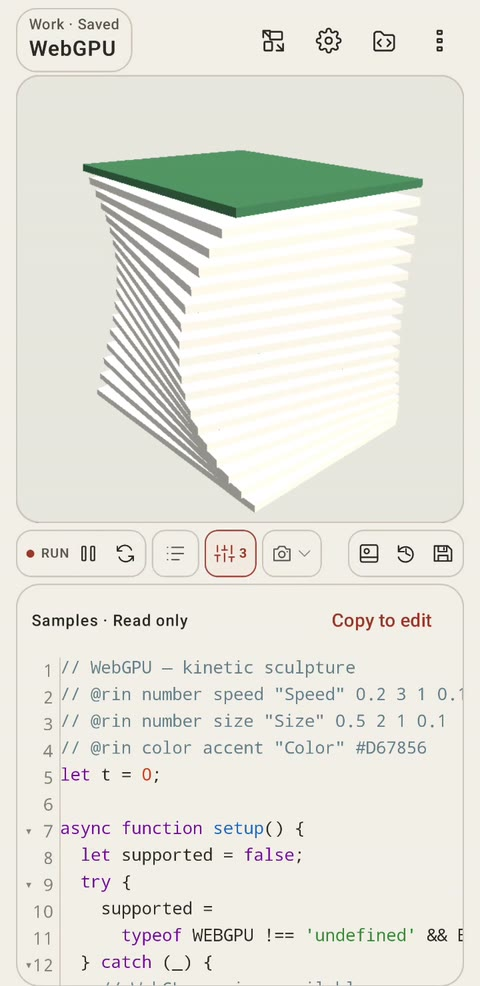
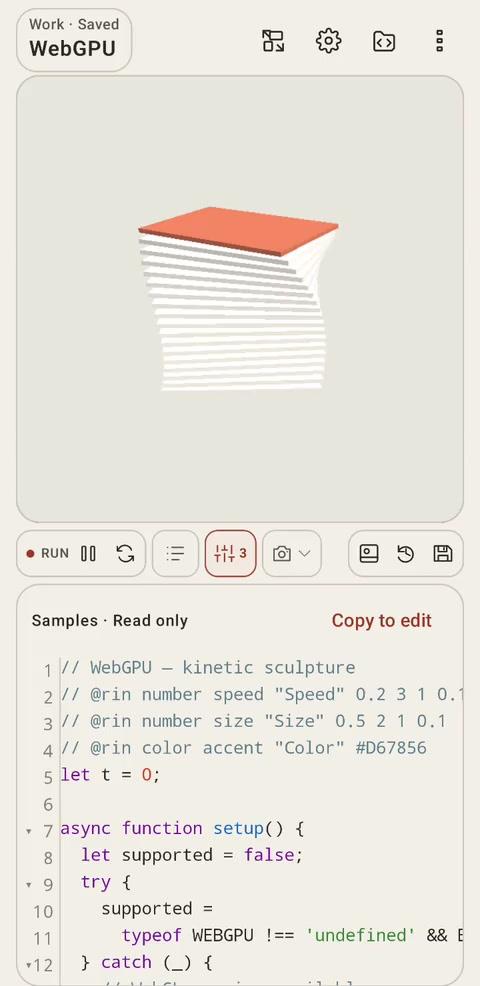
Fix demo video startup frames on website

Changed region(s): [[0.1562, 0.1521, 0.875, 0.5172]]

diff --git a/website/site.js b/website/site.js
@@ -83,6 +83,7 @@
     demo.pending = false;
     demo.video.pause();
     if (release && demo.video.hasAttribute('src')) {
+      demo.video.classList.remove('media-ready');
       demo.video.removeAttribute('src');
       demo.video.load();
     }
@@ -92,7 +93,7 @@
     if (!shouldPlay(demo) || demo.pending) return;
     const video = demo.video;
     if (!video.hasAttribute('src') || video.error) {
-      video.classList.remove('media-error');
+      video.classList.remove('media-error', 'media-ready');
       video.src = video.dataset.src;
       video.load();
     }
@@ -224,6 +225,13 @@
   reduceMotion.addEventListener('change', event => { paused = event.matches; updatePause(); });
   document.addEventListener('visibilitychange', () => { syncLoop(); syncVideos(); });
   demos.forEach(demo => {
+    // Keep the first-frame poster visible until the new source has decoded a frame.
+    demo.video.addEventListener('loadeddata', () => {
+      if (demo.video.hasAttribute('src') && demo.scene === current) {
+        demo.video.classList.add('media-ready');
+      }
+    });
+    demo.video.addEventListener('emptied', () => demo.video.classList.remove('media-ready'));
     for (const event of ['play', 'pause', 'error', 'emptied']) {
       demo.video.addEventListener(event, () => renderVideoButton(demo));
     }

diff --git a/website/styles.css b/website/styles.css
@@ -350,7 +350,11 @@ button:focus-visible,a:focus-visible,input:focus-visible {
   height:100%;
   display:block;
   object-fit:cover;
-  transform:translateZ(0)
+  transform:translateZ(0);
+  opacity:0
+}
+.video-surface video.media-ready {
+  opacity:1
 }
 .video-poster {
   position:absolute;
